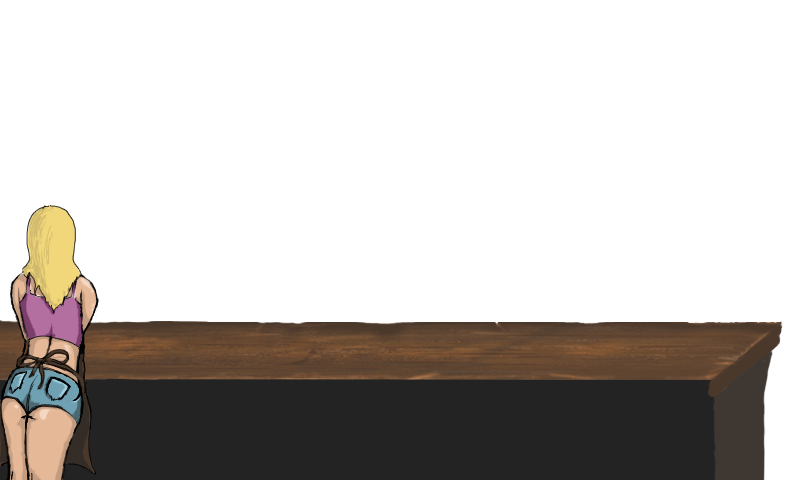
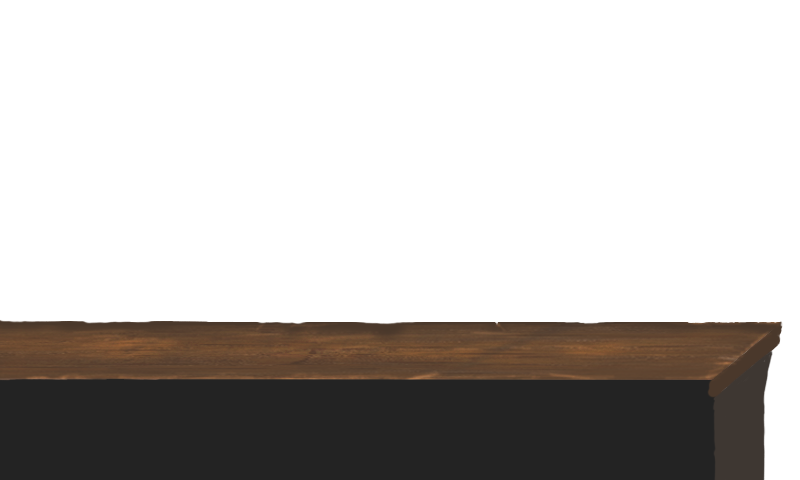
Bar and bartender separated

Changed region(s): [[0.0, 0.4062, 0.125, 1.0]]

diff --git a/core/src/ninja/epsilon/GameScreen.java b/core/src/ninja/epsilon/GameScreen.java
@@ -8,6 +8,7 @@ import ninja.epsilon.drinkers.Drinkers;
 import ninja.epsilon.physics.BarPhysics;
 import ninja.epsilon.renderers.BackgroundRenderer;
 import ninja.epsilon.renderers.BarRenderer;
+import ninja.epsilon.renderers.BarTenderRenderer;
 import ninja.epsilon.renderers.DashboardRenderer;
 import ninja.epsilon.renderers.DrinkRenderer;
 import ninja.epsilon.renderers.DrinkersRenderer;
@@ -39,6 +40,7 @@ public class GameScreen implements Screen {
 	private Renderer backgroundRenderer;
 	private Renderer barRenderer;
 	private Renderer drinkRenderer = null;
+	private Renderer barTenderRenderer = null;
 	
 	private SpriteBatch spriteBatch = null;
 	long start = 0; // Start of game
@@ -65,6 +67,7 @@ public class GameScreen implements Screen {
 		renderers.add(drinkersRenderer = new DrinkersRenderer(drinkers));
 		renderers.add(barRenderer = new BarRenderer());
 		renderers.add(drinkRenderer = new DrinkRenderer(physics));
+		renderers.add(barTenderRenderer = new BarTenderRenderer());
 		renderers.add(dashboardRenderer = new DashboardRenderer(scorer));
 
 		spriteBatch = new SpriteBatch();

diff --git a/core/src/ninja/epsilon/renderers/BarTenderRenderer.java b/core/src/ninja/epsilon/renderers/BarTenderRenderer.java
@@ -1,0 +1,28 @@
+package ninja.epsilon.renderers;
+
+import com.badlogic.gdx.Gdx;
+import com.badlogic.gdx.graphics.Texture;
+import com.badlogic.gdx.graphics.g2d.SpriteBatch;
+
+public class BarTenderRenderer implements Renderer {
+	
+	private Texture barImg;
+	
+	@Override
+	public void create() {
+	    barImg = new Texture(Gdx.files.internal("bartender.png"));
+	}
+
+	@Override
+	public void render(SpriteBatch spriteBatch) {
+		
+		spriteBatch.draw(barImg, 0, 0);
+
+	}
+
+	@Override
+	public void dispose() {
+		barImg.dispose();
+	}
+
+}
